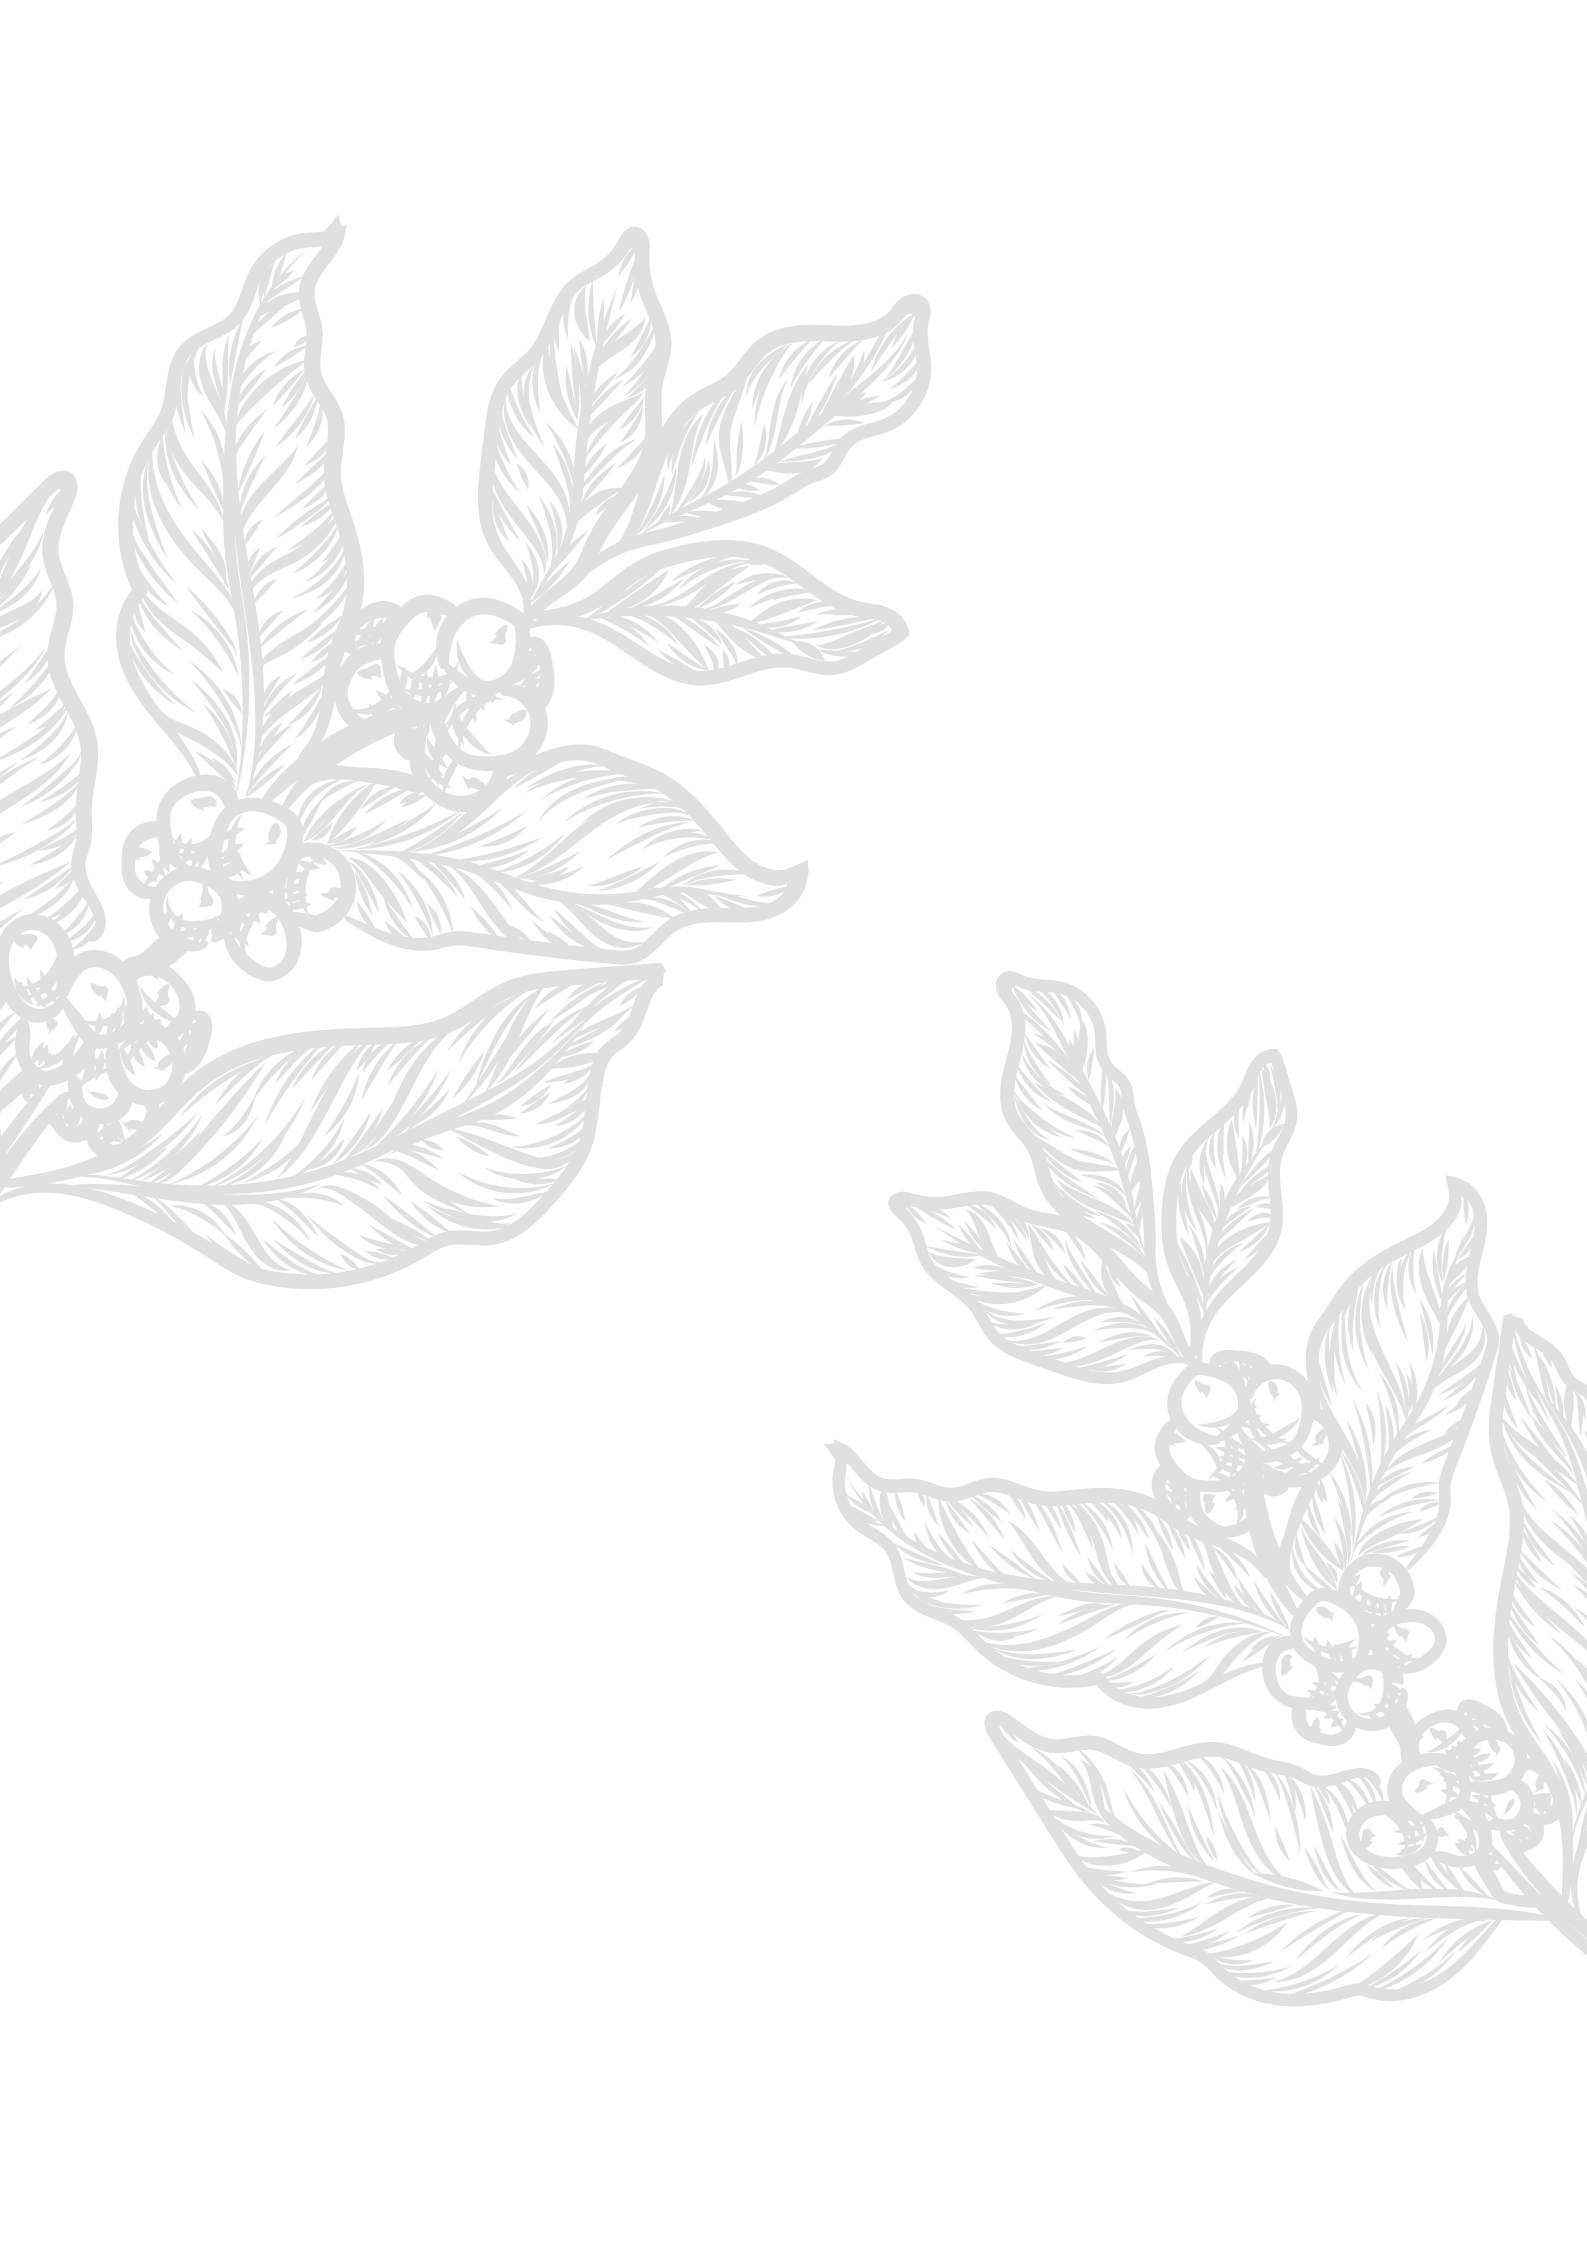
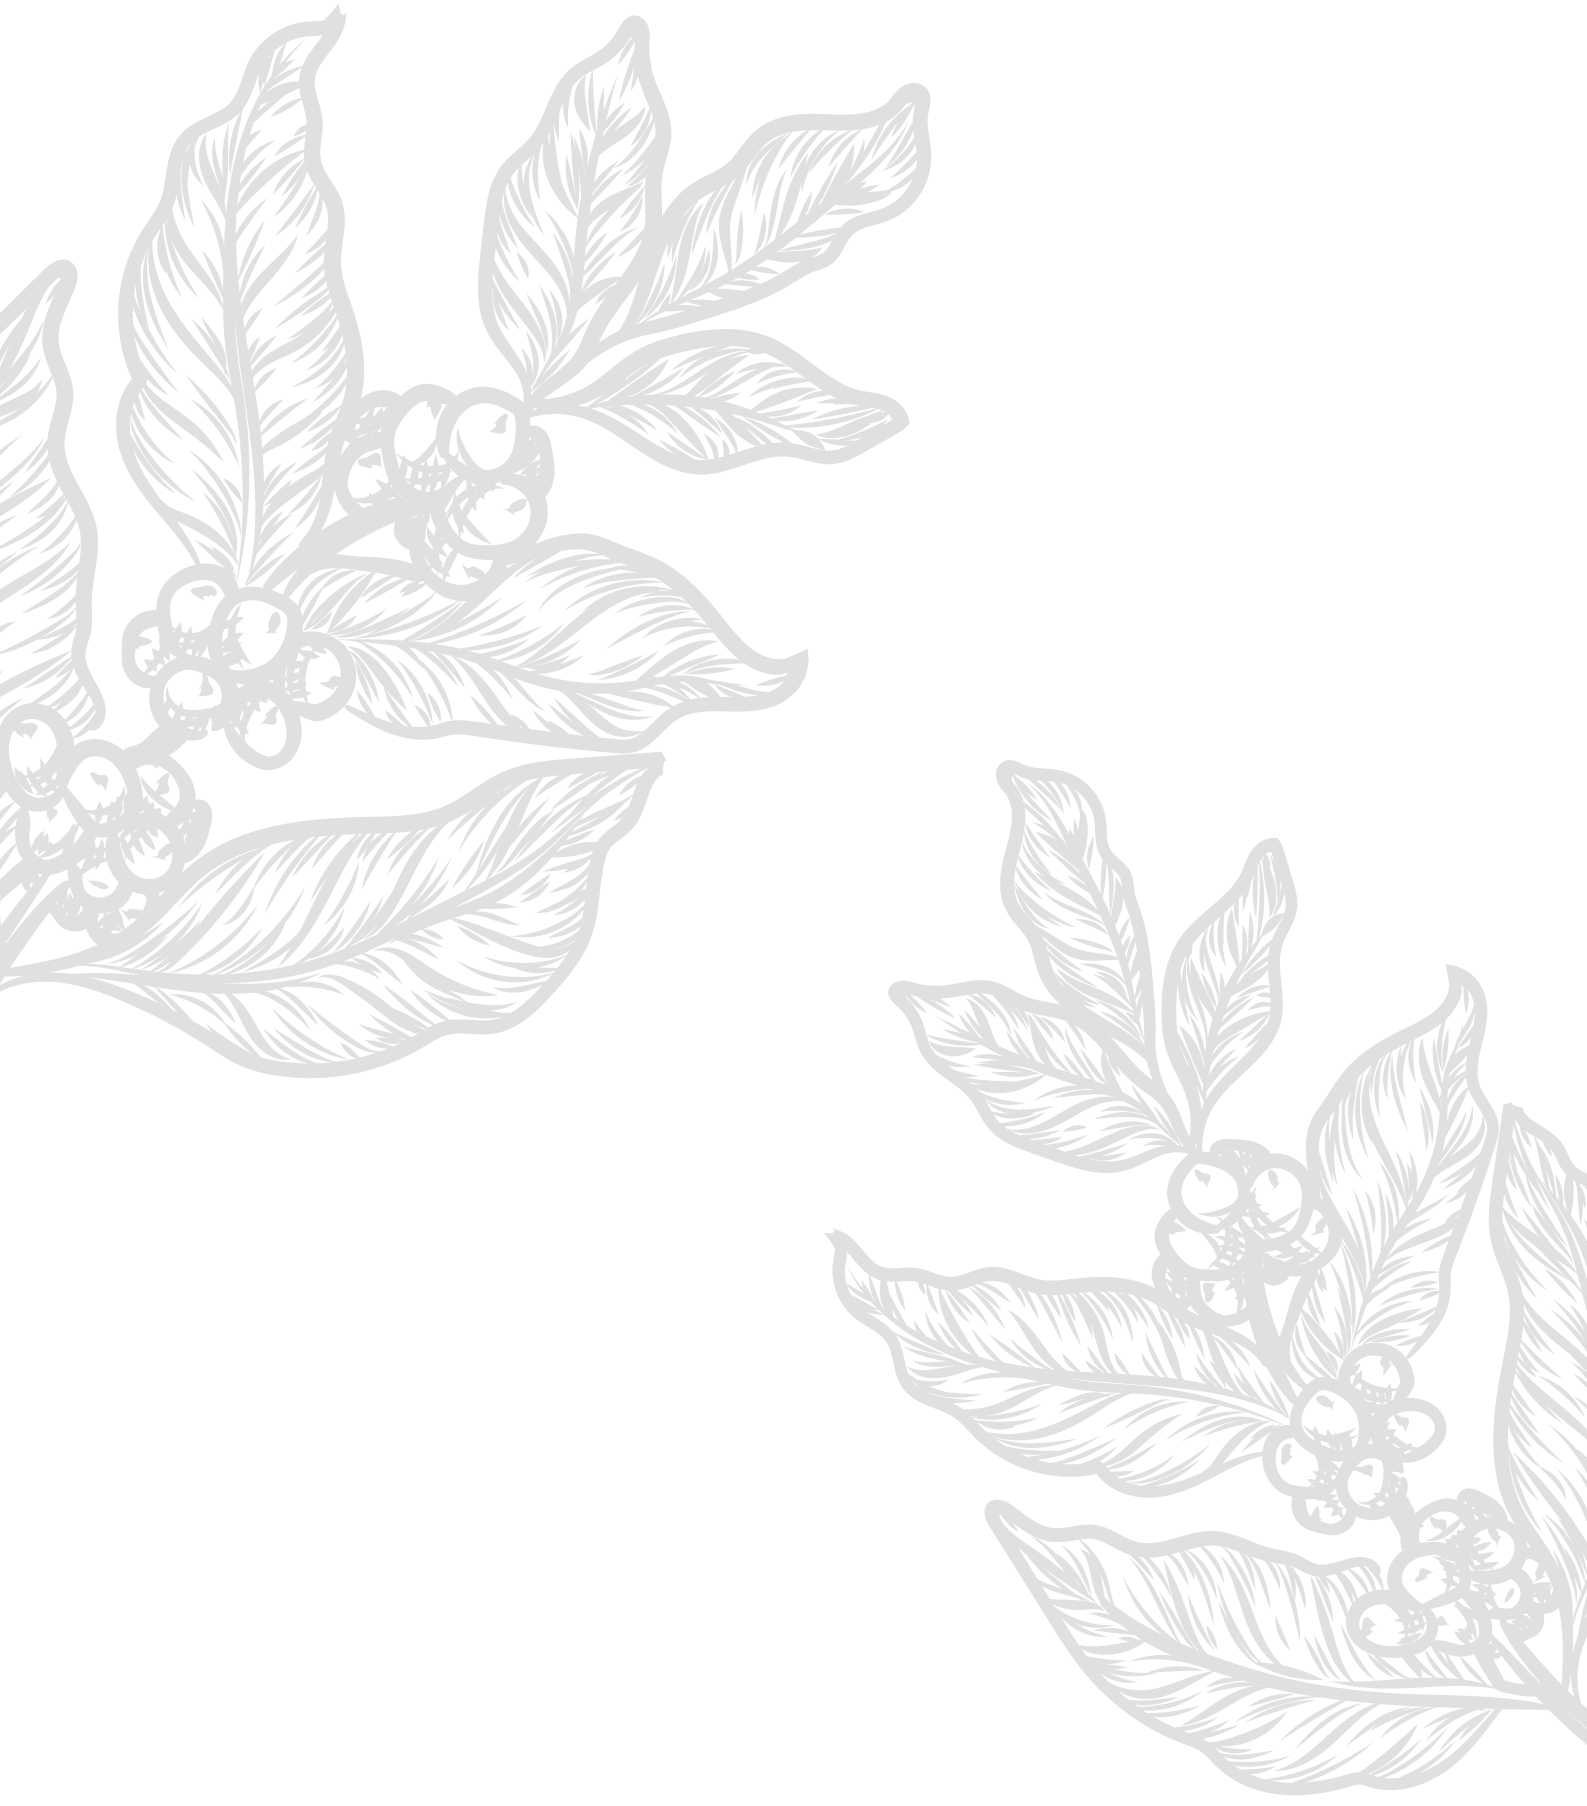
se realizo una nueva seccion agregando una frase en medio de espacios del local y productos destacados

Changed region(s): [[0.0, 0.0, 0.5866, 0.6202], [0.5249, 0.4031, 1.0, 1.0]]

diff --git a/css/style.css b/css/style.css
@@ -127,6 +127,61 @@ p {
 
   }
 
+/*frase */
+.barra{
+    background-color: var(--cafeSecundario);
+    padding: 2rem;
+}
+
+
+     
+
+
+.barra__bg {
+    display: grid;
+    justify-content: center;
+    align-items: center;
+    grid-template-columns: 100%;
+    grid-template-rows: auto;   
+    position: relative;
+    width: 100%;
+    height: 600px;
+    background-image: url(../assets/img/coffe_branch_2.png);
+    background-attachment: fixed;
+  }
+  
+  .element {
+    position: absolute;
+  }
+  
+  .element1 {
+    top: 5px;
+    left: 75px;
+  }
+  .element1 h2, p{
+    text-align: center;
+  }
+  .element3 {
+    top: 200px;
+    left: 100px;
+  }
+  .element3 img{
+    width: 100%;
+    height: 300px;
+    object-fit: cover;
+  }
+  
+  .element2{
+    background-color: var(--cafe);
+    padding: 9rem;
+    top: 360px;
+    left: 65px;
+    
+
+  }
+ .style1{
+    color: #4b6246;
+ }
   
 /*PRODUCTOS DESTACADOS*/
 
@@ -384,17 +439,6 @@ p {
 
 
 /*PAGINA CONTACTO*/
-/*.marca-agua{
-    background-image: url(../assets/img/coffe_branch_2.jpg);
-    width: 100%;
-    height: auto;
-    background-size: cover;
-    background-repeat: no-repeat;
-    opacity: 0.5;
-    margin-left: 2rem;
-    margin-right: 2rem;
-}*/
-    
 
 
 .contacto-bg{
@@ -520,8 +564,11 @@ p {
     .subtitulos h2{
         margin-top: 0;
     }
+
+    
     
 }
+
 @media screen and (min-width: 480px) {
     .bg{
         padding-top: 5rem;
@@ -555,6 +602,40 @@ p {
     .contenedor {
         grid-template-columns: 90%;
     }
+
+
+
+
+    .barra__bg{
+        height: 800px;
+    }
+      
+    .element1 {
+        top: 55px;
+        left: 200px;
+    }
+    .element1 h2{
+        font-size: 4.5rem;
+    }
+
+    .element1 p{
+        font-size: 2.5rem;
+    }
+
+    .element3 {
+        top: 420px;
+        left: 300px;
+    }
+      
+    .element2{
+        padding: 12rem;
+        top: 520px;
+        left: 230px;
+    }
+
+
+
+
 
 }
 @media screen and (min-width: 768px) {
@@ -628,7 +709,23 @@ p {
     .curso__submit{
         font-size: 2rem;
     }
+    
+    .element1 {
+        top: 255px;
+        left: 30px;
+    }
 
+    .element3 {
+        top: 250px;
+        left: 500px;
+    }
+      
+    .element2{
+        top: 340px;
+        left: 450px;
+    }
+    
+      
     
     
 
@@ -774,17 +871,51 @@ p {
     
     }
 
-     .boton {
+    .boton {
         padding: 1rem 3rem;
         text-transform: uppercase;
         font-weight: bold;
         margin-bottom: 2rem;
         
     }
-     .boton-primario {
+    .boton-primario {
         padding: 1rem;
     
     }
+    
+
+    .element1 {
+        top: 200px;
+        left: 140px;
+    }
+    .element1 h2{
+        font-size: 8rem;
+    }
+    .element1 p{
+        font-size: 4rem;
+    }
+
+    .element3 {
+        top: 200px;
+        left: 970px;
+    }
+
+   
+    .element2{
+        top: 430px;
+        left: 900px;
+    }
+    .element3 img{
+        width: 120%;
+        height: 400px;
+    }
+
+    
+
+    
+    
+
+    
 
 }
 

diff --git a/index.html b/index.html
@@ -132,6 +132,29 @@
 
       </section>
 
+      <section>
+        <div class="barra"></div>
+          
+
+          <div class="barra__bg">
+            <div class="element element1">
+              <h2><span class="style1">IMPORTAMOS,</span><br> <span class="style2">SELECCIONAMOS </span><br> <span class="style1">& TOSTAMOS</span></h2>
+              <P><strong>Café de especialidad <br>de distintas partes del mundo</strong></P>
+            </div>
+            <div class="element element2">
+
+            </div>
+            <div class="element element3 ">
+              <img src="assets/img/cafeTostado.jpg"  alt="">
+            </div>
+            
+          </div>
+          
+       
+
+
+      </section>
+
       <!--PRODUCTOS DESTACADOSs-->
       <section class="subtitulos">
         <h2>Productos destacados</h2>
